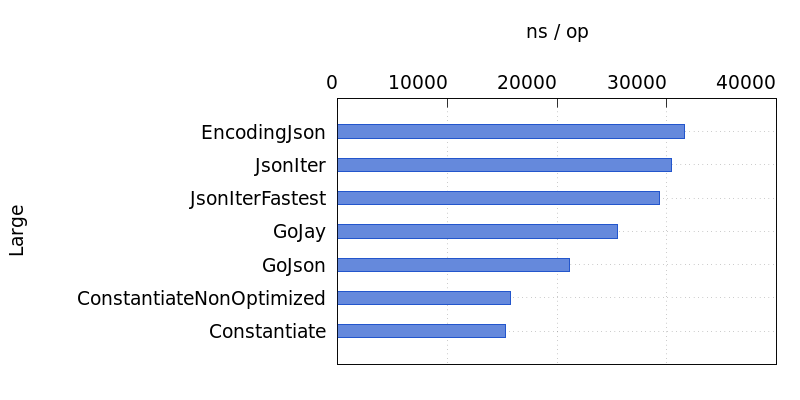
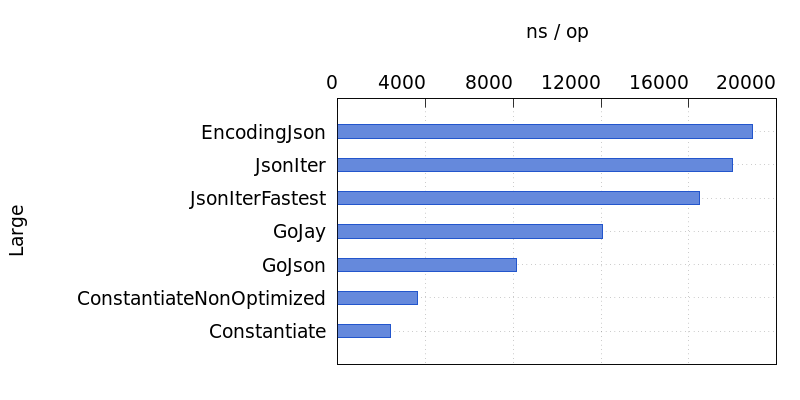
Clean: remove struct allocation time from benchmark

diff --git a/benchmarks/encode_test.go b/benchmarks/encode_test.go
@@ -10,184 +10,205 @@ import (
 )
 
 func Benchmark_Encode_SmallStruct_EncodingJson(b *testing.B) {
+	s := NewSmallPayload()
 	b.ReportAllocs()
 	for i := 0; i < b.N; i++ {
-		if _, err := json.Marshal(NewSmallPayload()); err != nil {
+		if _, err := json.Marshal(s); err != nil {
 			b.Fatal(err)
 		}
 	}
 }
 
 func Benchmark_Encode_SmallStruct_JsonIter(b *testing.B) {
+	s := NewSmallPayload()
 	var json = jsoniter.ConfigCompatibleWithStandardLibrary
 	b.ReportAllocs()
 	for i := 0; i < b.N; i++ {
-		if _, err := json.Marshal(NewSmallPayload()); err != nil {
+		if _, err := json.Marshal(s); err != nil {
 			b.Fatal(err)
 		}
 	}
 }
 
 func Benchmark_Encode_SmallStruct_JsonIterFastest(b *testing.B) {
+	s := NewSmallPayload()
 	var json = jsoniter.ConfigFastest
 	b.ReportAllocs()
 	for i := 0; i < b.N; i++ {
-		if _, err := json.Marshal(NewSmallPayload()); err != nil {
+		if _, err := json.Marshal(s); err != nil {
 			b.Fatal(err)
 		}
 	}
 }
 
 func Benchmark_Encode_SmallStruct_GoJay(b *testing.B) {
+	s := NewSmallPayload()
 	b.ReportAllocs()
 	for i := 0; i < b.N; i++ {
-		if _, err := gojay.MarshalJSONObject(NewSmallPayload()); err != nil {
+		if _, err := gojay.MarshalJSONObject(s); err != nil {
 			b.Fatal(err)
 		}
 	}
 }
 
 func Benchmark_Encode_SmallStruct_GoJson(b *testing.B) {
+	s := NewSmallPayload()
 	b.ReportAllocs()
 	for i := 0; i < b.N; i++ {
-		if _, err := gojson.Marshal(NewSmallPayload()); err != nil {
+		if _, err := gojson.Marshal(s); err != nil {
 			b.Fatal(err)
 		}
 	}
 }
 
 func Benchmark_Encode_SmallStruct_ConstantiateNonOptimized(b *testing.B) {
+	s := NewSmallPayloadNonOptimized()
 	b.ReportAllocs()
 	for i := 0; i < b.N; i++ {
-		_ = NewSmallPayloadNonOptimized().NewJsonMarshal()
+		_ = s.NewJsonMarshal()
 	}
 }
 
 func Benchmark_Encode_SmallStruct_Constantiate(b *testing.B) {
+	s := NewSmallPayload()
 	b.ReportAllocs()
 	for i := 0; i < b.N; i++ {
-		_ = NewSmallPayload().NewJsonMarshal()
+		_ = s.NewJsonMarshal()
 	}
 }
 
 func Benchmark_Encode_MediumStruct_EncodingJson(b *testing.B) {
+	m := NewMediumPayload()
 	b.ReportAllocs()
 	for i := 0; i < b.N; i++ {
-		if _, err := json.Marshal(NewMediumPayload()); err != nil {
+		if _, err := json.Marshal(m); err != nil {
 			b.Fatal(err)
 		}
 	}
 }
 
 func Benchmark_Encode_MediumStruct_JsonIter(b *testing.B) {
+	m := NewMediumPayload()
 	var json = jsoniter.ConfigCompatibleWithStandardLibrary
 	b.ReportAllocs()
 	for i := 0; i < b.N; i++ {
-		if _, err := json.Marshal(NewMediumPayload()); err != nil {
+		if _, err := json.Marshal(m); err != nil {
 			b.Fatal(err)
 		}
 	}
 }
 
 func Benchmark_Encode_MediumStruct_JsonIterFastest(b *testing.B) {
+	m := NewMediumPayload()
 	var json = jsoniter.ConfigFastest
 	b.ReportAllocs()
 	for i := 0; i < b.N; i++ {
-		if _, err := json.Marshal(NewMediumPayload()); err != nil {
+		if _, err := json.Marshal(m); err != nil {
 			b.Fatal(err)
 		}
 	}
 }
 
 func Benchmark_Encode_MediumStruct_GoJay(b *testing.B) {
+	m := NewMediumPayload()
 	b.ReportAllocs()
 	for i := 0; i < b.N; i++ {
-		if _, err := gojay.MarshalJSONObject(NewMediumPayload()); err != nil {
+		if _, err := gojay.MarshalJSONObject(m); err != nil {
 			b.Fatal(err)
 		}
 	}
 }
 
 func Benchmark_Encode_MediumStruct_GoJson(b *testing.B) {
+	m := NewMediumPayload()
 	b.ReportAllocs()
 	for i := 0; i < b.N; i++ {
-		if _, err := gojson.Marshal(NewMediumPayload()); err != nil {
+		if _, err := gojson.Marshal(m); err != nil {
 			b.Fatal(err)
 		}
 	}
 }
 
 func Benchmark_Encode_MediumStruct_ConstantiateNonOptimized(b *testing.B) {
+	m := NewMediumPayloadNonOptimized()
 	b.ReportAllocs()
 	for i := 0; i < b.N; i++ {
-		_ = NewMediumPayloadNonOptimized().NewJsonMarshal()
+		_ = m.NewJsonMarshal()
 	}
 }
 
 func Benchmark_Encode_MediumStruct_Constantiate(b *testing.B) {
+	m := NewMediumPayload()
 	b.ReportAllocs()
 	for i := 0; i < b.N; i++ {
-		_ = NewMediumPayload().NewJsonMarshal()
+		_ = m.NewJsonMarshal()
 	}
 }
 
 func Benchmark_Encode_LargeStruct_EncodingJson(b *testing.B) {
+	l := NewLargePayload()
 	b.ReportAllocs()
 	for i := 0; i < b.N; i++ {
-		if _, err := json.Marshal(NewLargePayload()); err != nil {
+		if _, err := json.Marshal(l); err != nil {
 			b.Fatal(err)
 		}
 	}
 }
 
 func Benchmark_Encode_LargeStruct_JsonIter(b *testing.B) {
+	l := NewLargePayload()
 	var json = jsoniter.ConfigCompatibleWithStandardLibrary
 	b.ReportAllocs()
 	for i := 0; i < b.N; i++ {
-		if _, err := json.Marshal(NewLargePayload()); err != nil {
+		if _, err := json.Marshal(l); err != nil {
 			b.Fatal(err)
 		}
 	}
 }
 
 func Benchmark_Encode_LargeStruct_JsonIterFastest(b *testing.B) {
+	l := NewLargePayload()
 	var json = jsoniter.ConfigFastest
 	b.ReportAllocs()
 	for i := 0; i < b.N; i++ {
-		if _, err := json.Marshal(NewLargePayload()); err != nil {
+		if _, err := json.Marshal(l); err != nil {
 			b.Fatal(err)
 		}
 	}
 }
 
 func Benchmark_Encode_LargeStruct_GoJay(b *testing.B) {
+	l := NewLargePayload()
 	b.ReportAllocs()
 	for i := 0; i < b.N; i++ {
-		if _, err := gojay.MarshalJSONObject(NewLargePayload()); err != nil {
+		if _, err := gojay.MarshalJSONObject(l); err != nil {
 			b.Fatal(err)
 		}
 	}
 }
 
 func Benchmark_Encode_LargeStruct_GoJson(b *testing.B) {
+	l := NewLargePayload()
 	b.ReportAllocs()
 	for i := 0; i < b.N; i++ {
-		if _, err := gojson.Marshal(NewLargePayload()); err != nil {
+		if _, err := gojson.Marshal(l); err != nil {
 			b.Fatal(err)
 		}
 	}
 }
 
 func Benchmark_Encode_LargeStruct_ConstantiateNonOptimized(b *testing.B) {
+	l := NewLargePayloadNonOptimized()
 	b.ReportAllocs()
 	for i := 0; i < b.N; i++ {
-		_ = NewLargePayloadNonOptimized().NewJsonMarshal()
+		_ = l.NewJsonMarshal()
 	}
 }
 
 func Benchmark_Encode_LargeStruct_Constantiate(b *testing.B) {
+	l := NewLargePayload()
 	b.ReportAllocs()
 	for i := 0; i < b.N; i++ {
-		_ = NewLargePayload().NewJsonMarshal()
+		_ = l.NewJsonMarshal()
 	}
 }

diff --git a/README.md b/README.md
@@ -79,10 +79,10 @@ type M map[string]string
 |Constantiate|This one. Using Extended options.|
 
 ### SmallStruct
-![Small](https://user-images.githubusercontent.com/49056869/92892761-049c3e00-f454-11ea-9cc6-bab5eccc713e.png)
+![Small](https://user-images.githubusercontent.com/49056869/92896352-424e9600-f457-11ea-90aa-90134b2597a5.png)
 
 ### MediumStruct
-![Medium](https://user-images.githubusercontent.com/49056869/92892769-05cd6b00-f454-11ea-9402-f07dc1cbbdca.png)
+![Medium](https://user-images.githubusercontent.com/49056869/92896716-948fb700-f457-11ea-8a92-489064c13351.png)
 
 ### LargeStruct
-![Large](https://user-images.githubusercontent.com/49056869/92892776-06fe9800-f454-11ea-86be-878693039a1b.png)
+![Large](https://user-images.githubusercontent.com/49056869/92896709-93f72080-f457-11ea-8a10-e28e6bbd1b89.png)
